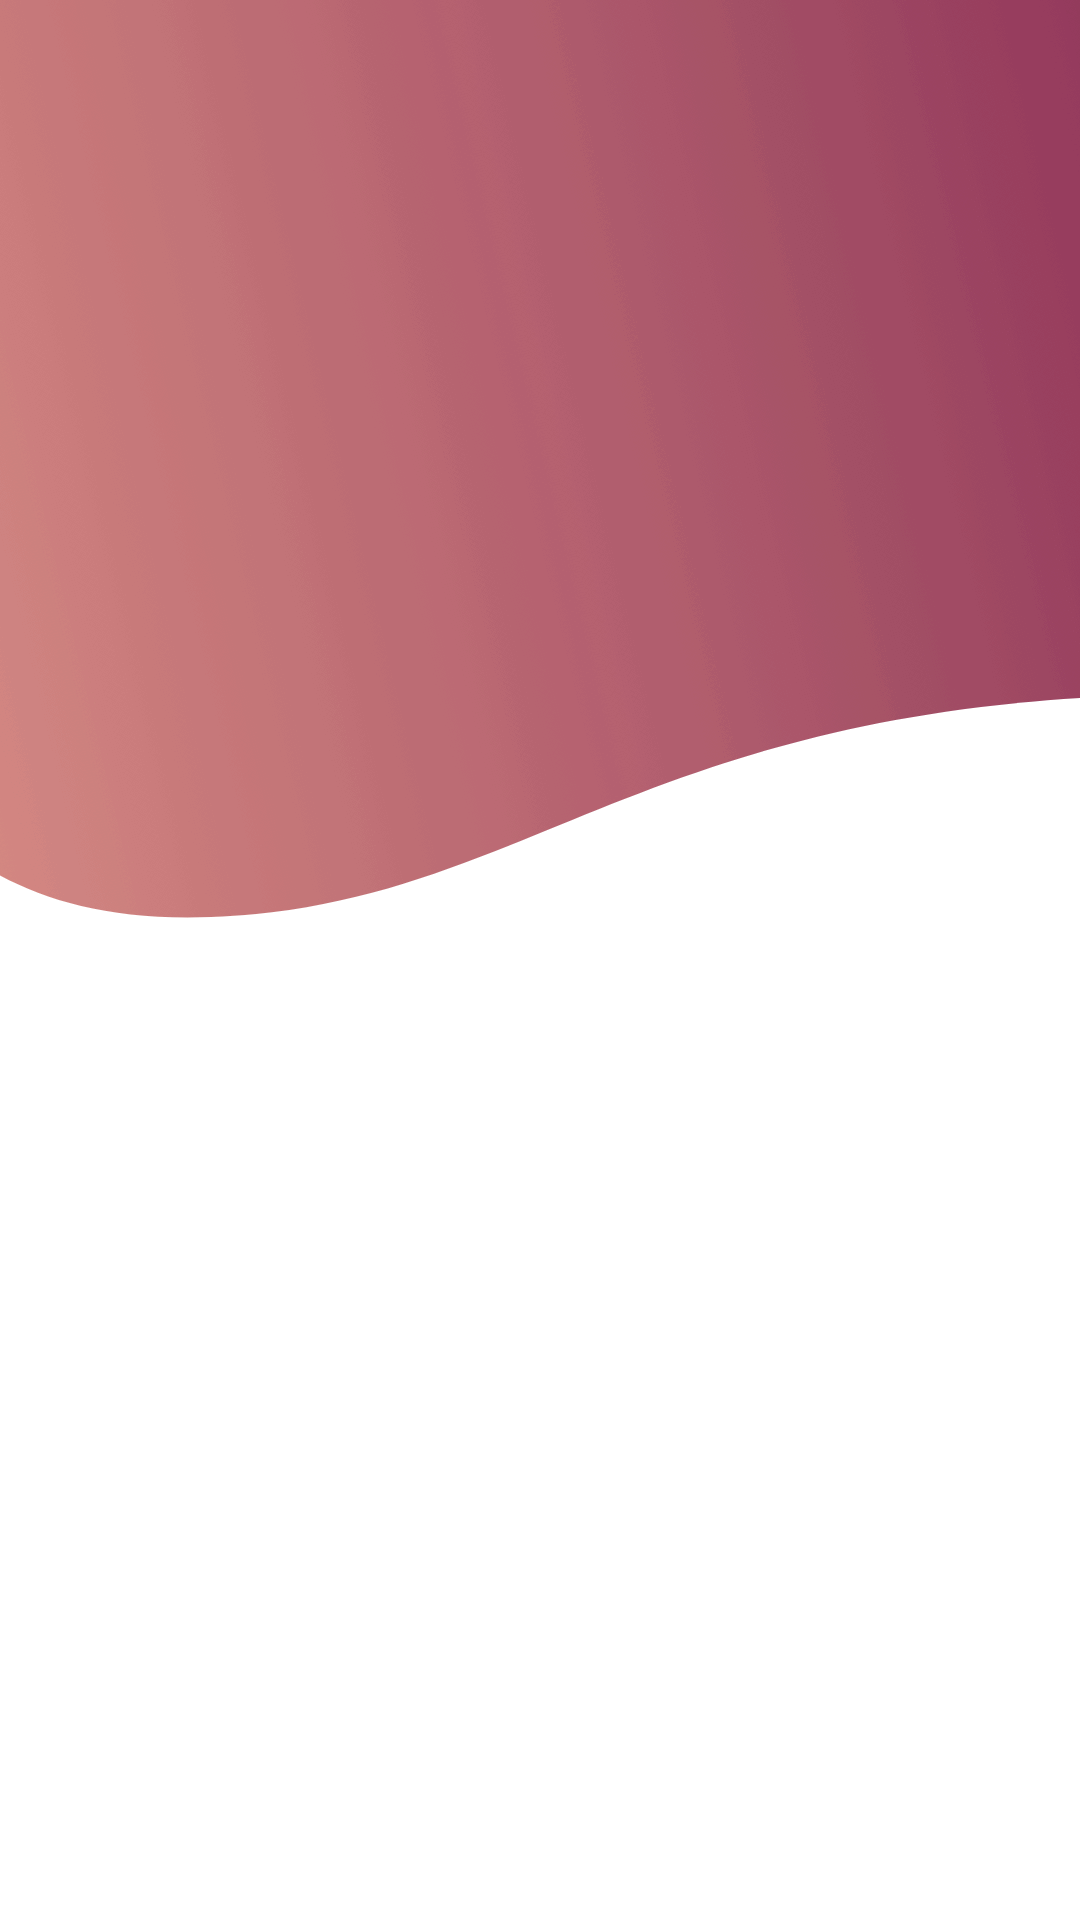
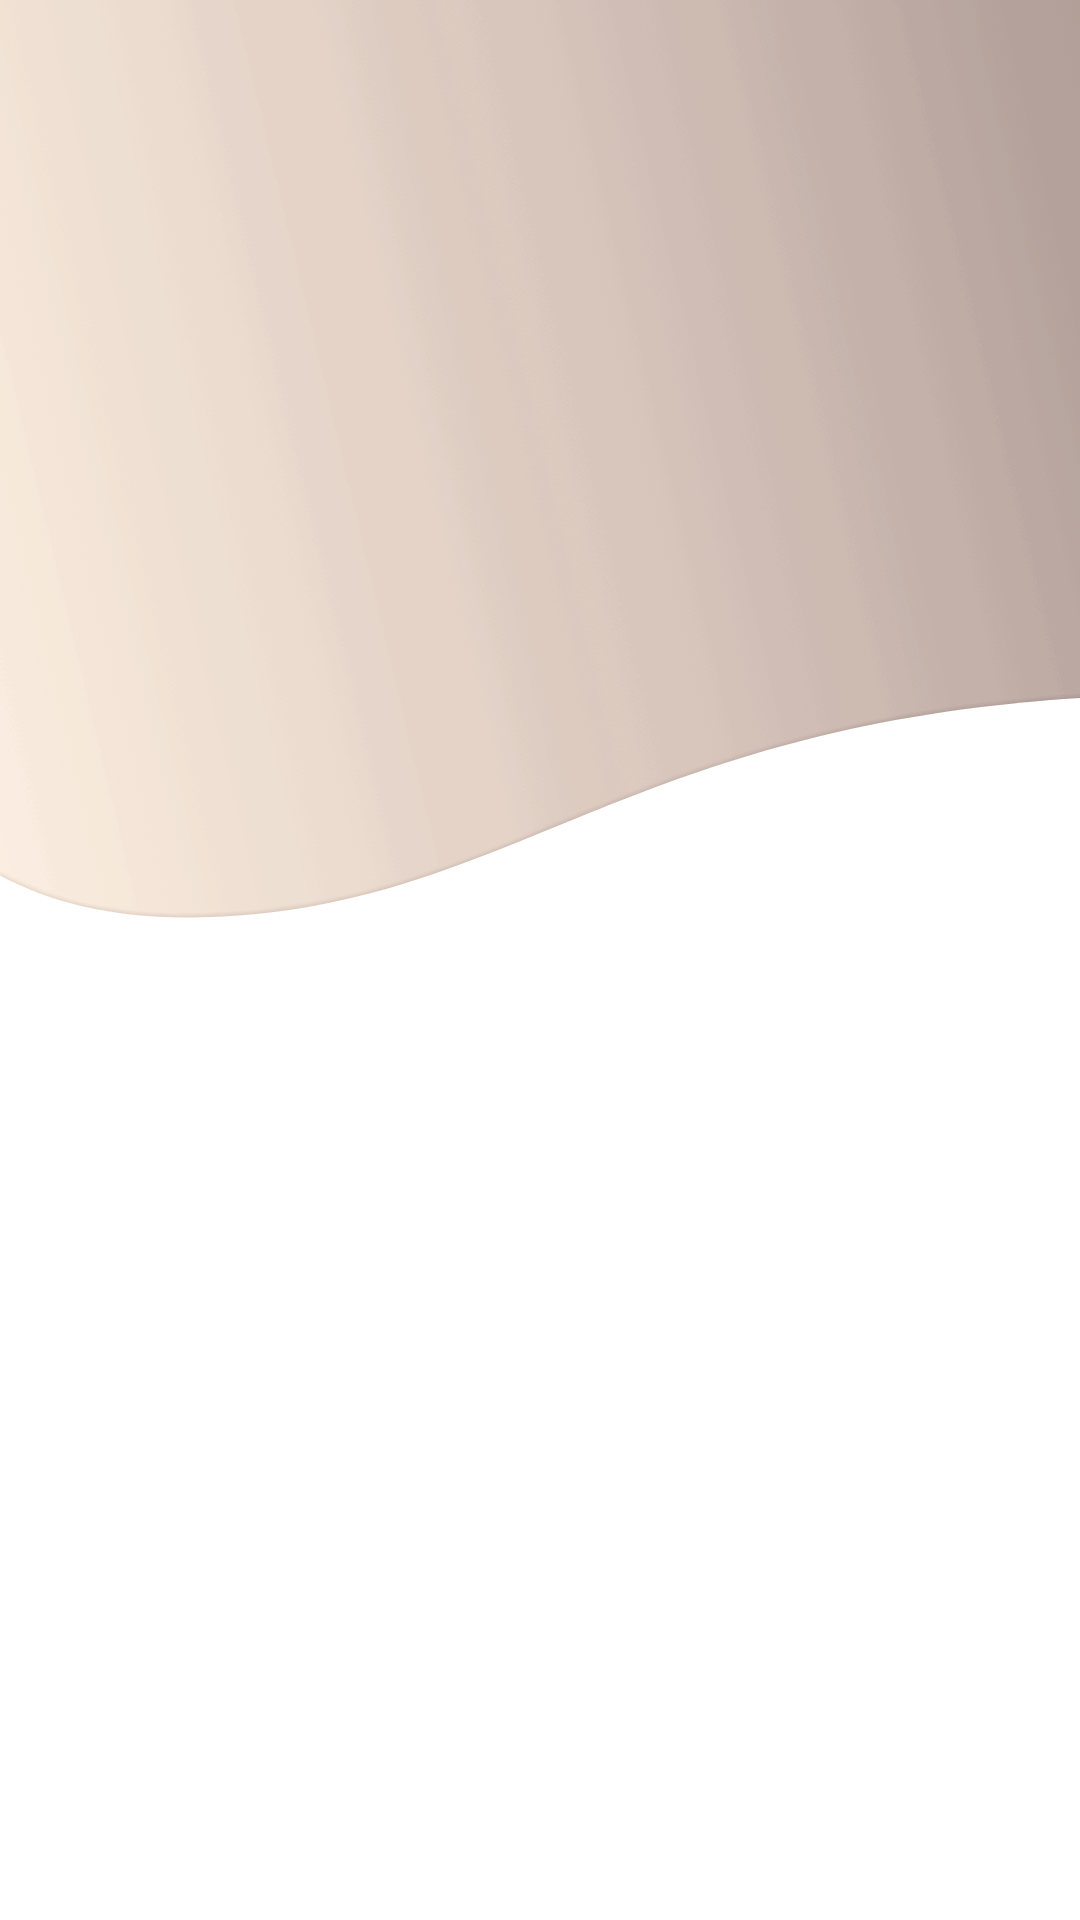
Update UI and colors

diff --git a/mobile-app/src/Screens/LoginScreen.js b/mobile-app/src/Screens/LoginScreen.js
@@ -39,7 +39,7 @@ export default function LoginScreen() {
             <View className="flex items-center">
                 <Animated.Text 
                     entering={FadeInUp.duration(1000).springify()} 
-                    className="text-white font-bold tracking-wider text-5xl">
+                    className="text-orange-900 font-bold tracking-wider text-5xl">
                         Login
                 </Animated.Text>
             </View>

diff --git a/mobile-app/src/Screens/SignupScreen.js b/mobile-app/src/Screens/SignupScreen.js
@@ -39,7 +39,7 @@ export default function SignupScreen() {
         <View className="flex items-center">
             <Animated.Text 
                 entering={FadeInUp.duration(1000).springify()} 
-                className="text-white font-bold tracking-wider text-5xl">
+                className="text-orange-900 font-bold tracking-wider text-5xl">
                     Sign Up
             </Animated.Text>
         </View>
